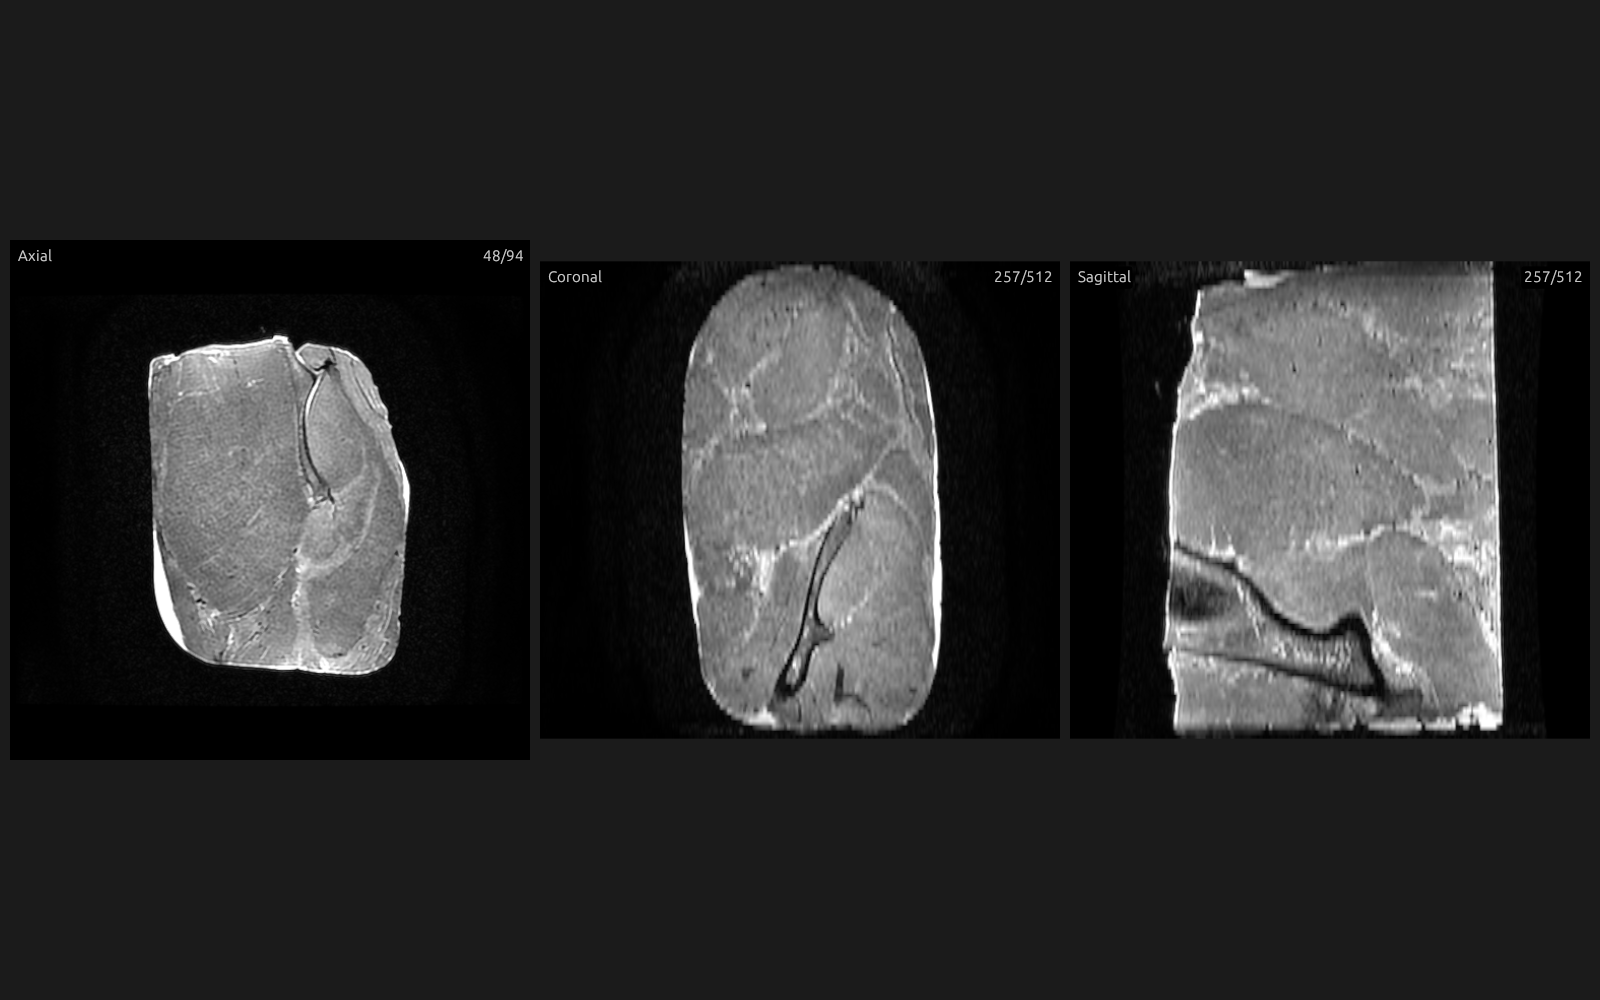
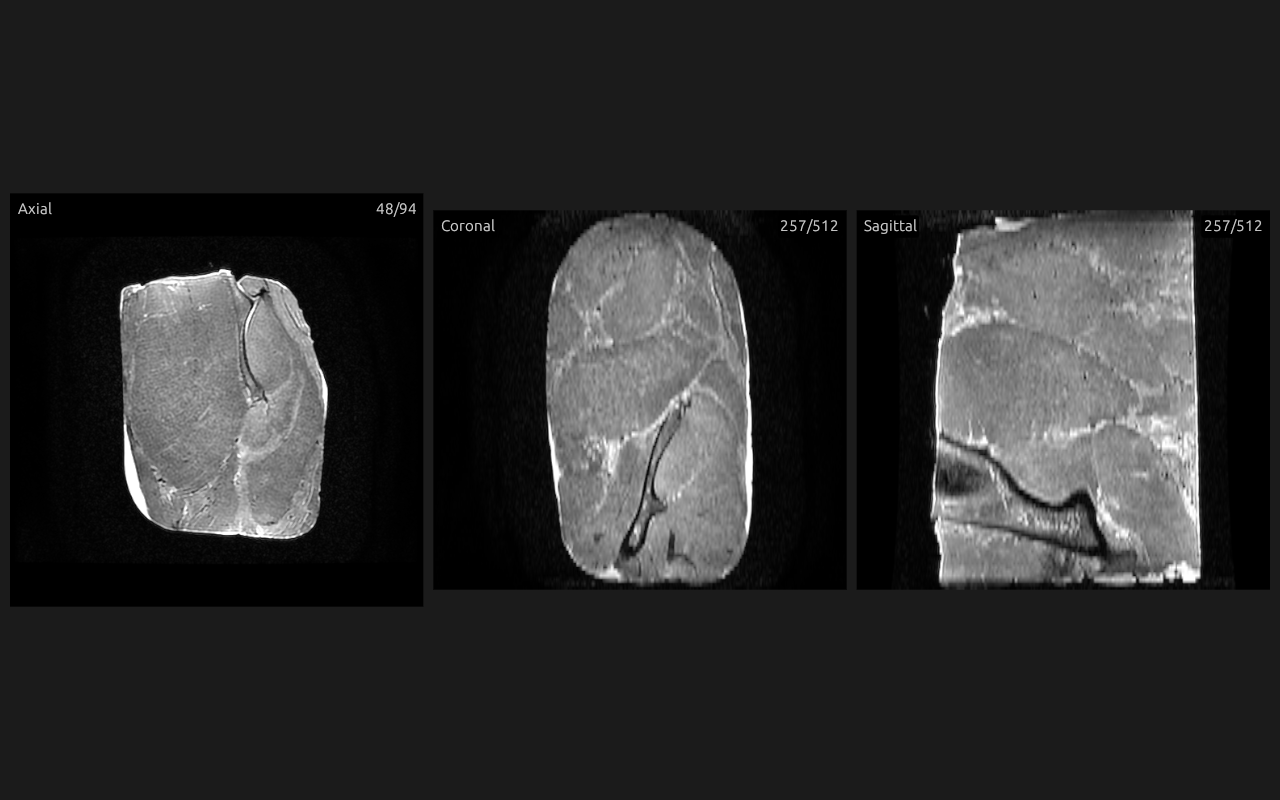
docs(ritk-snap): Record matched eframe MRI surface
Bind the real orthogonal MRI capture to the 1280x800 Métis extent and retain the host logical-to-physical viewport contract.

Item: RITK-SNAP-EFRAME-MATCH-001

Refs: backlog.md#RITK-SNAP-EFRAME-MATCH-001

diff --git a/backlog.md b/backlog.md
@@ -170,11 +170,9 @@
 
 <a id="RITK-SNAP-EFRAME-MATCH-001"></a>
 ## RITK-SNAP-EFRAME-MATCH-001 — Match the Métis capture extent [minor]
-- Status: in-progress; priority: P1; owner: RITK viewer; integrator: root; last-update: 2026-09-18; dependency: [Metis comparative evidence](../metis/backlog.md#METIS-PERF-001); risk: display-scale-dependent fixture.
-- Scope: add a validated eframe logical viewport option and regenerate the real MRI orthogonal-surface capture at the controlled host extent used by Métis; retain the existing default and semantic planes.
-- Non-goals: GPUI/Tauri implementation, framework ranking, or rescaling an already-rendered image.
-- Acceptance: parser/unit tests cover positive, zero, oversized and malformed sizes; the controlled 125% host produces a 1280×800 physical capture with axial/coronal/sagittal surfaces, repeated digest and provenance recording requested logical size plus observed display scale; manual and `METIS-PERF-001` link the record.
-- Risk/change class: `[minor]`; the additive CLI/API option is documented and the default remains 1280×800 logical points.
+- Status: review; priority: P1; owner: RITK viewer; integrator: root; last-update: 2026-09-18; delivery: commit `1f9053ba2dd8a6b77da83073261642019c66863a`; dependency: [Metis comparative evidence](../metis/backlog.md#METIS-PERF-001); risk: display-scale-dependent fixture.
+- Outcome: the validated `--viewport-size 1024x640` option renders the real 94-file MRI study at 1280×800 physical pixels on the controlled 125% Windows host without post-capture rescaling; the default 1280×800 logical viewport and semantic planes remain unchanged.
[1 lines of base64/hex data omitted]
 
 <a id="RITK-SNAP-METIS-001"></a>
 ## RITK-SNAP-METIS-001 — Migrate the viewer shell to Métis [arch] [major]

diff --git a/docs/manual/dicom-workflow.md b/docs/manual/dicom-workflow.md
@@ -429,7 +429,7 @@ target\debug\ritk-snap-eframe.exe `
   test_data\2_head_mri_t2\DICOM `
   --presentation orthogonal-surface `
   --viewport-size 1024x640 `
-  --capture scratch\viewer\real-mri-eframe-orthogonal.png
+  --capture scratch\viewer\real-mri-eframe-matched.png
 ```
 
 The eframe viewport size is logical points. On the controlled Windows host,
